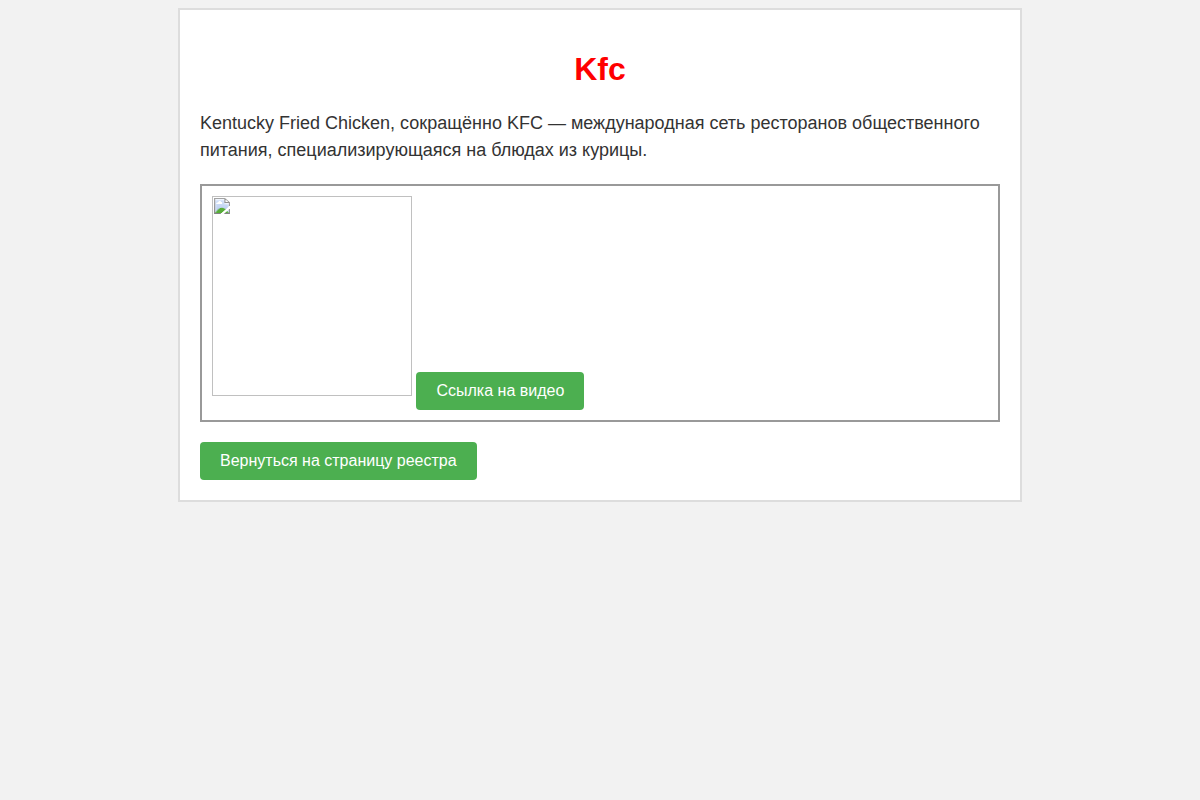
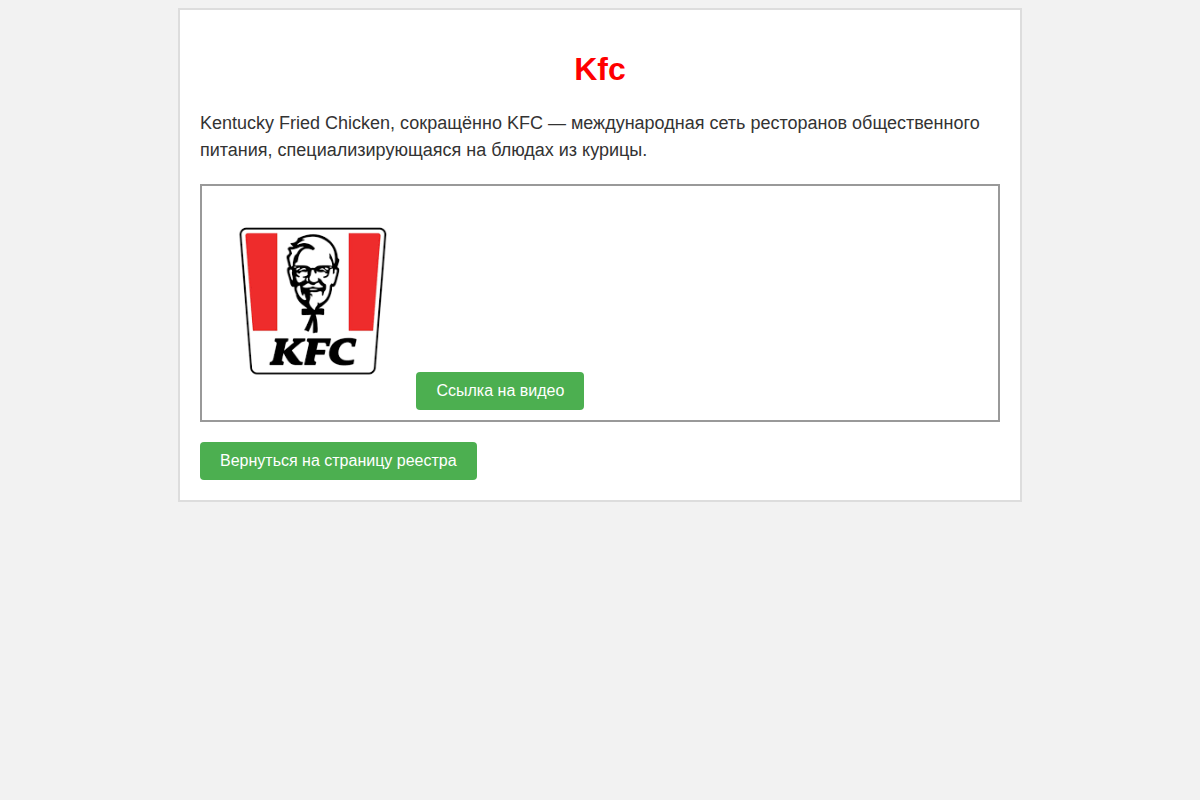
fix: replace bare-number picture labels and stale screenshot claims in elementary-frontend-labs
Nine practices had README tables with generic "1"/"2"/"3" labels even
where the pages have real distinguishing content the original labeling
pass missed (it only checked <title>, which is duplicated across pages
in several of these practices, not <h1> or actual page content):
- 01/practice-b: 3,4 -> distinguishing link targets (Blok poem, Rickroll)
- 02/practice-b: 1,2,3 -> real page <title>s (Первая/Вторая/Третья)
- 03/practice-a: 2,3,4 -> <h1> planet names shared by StarCraft's
  Aiur/Zerus/Korhal IV (all three pages share the same <title>)
- 03/practice-b: 2,3 -> genuinely interchangeable styling-exercise pages
  with no distinguishing content; labeled honestly as page 2/3 rather
  than inventing a false distinction
- 06/practice-a: 2,3 -> real page <title>s (Reader survey / v2)
- 07/practice-b: 1,2 -> <h1> text (JavaScript Lab 7/8, shared <title>)

07/practice-a and 08/practice-b said "nothing to screenshot" even though
each has 3 real terminal-panel screenshots sitting unused in results/ -
wired them into a proper preview table instead.

Also fixes a real bug: 02/practice-a/second_page.html referenced
`Kfc.png` but the file on disk is `kfc.png` - broken image on a
case-sensitive filesystem. Fixed the reference and recaptured
screenshot-2.png at the same 1200x800 viewport as its siblings.

Claude-Session: https://claude.ai/code/session_01Fu5tuhCQHKtTgZx7shMgyH

Changed region(s): [[0.185, 0.2812, 0.3392, 0.4688], [0.1542, 0.25, 0.185, 0.2812]]

diff --git a/elementary-frontend-labs/labs/02/practice-a/second_page.html b/elementary-frontend-labs/labs/02/practice-a/second_page.html
@@ -53,7 +53,7 @@
       <p>Kentucky Fried Chicken, сокращённо KFC — международная сеть ресторанов
          общественного питания, специализирующаяся на блюдах из курицы.</p>
       <div class="illustration">
-        <img src="Kfc.png" width="200" height="200">
+        <img src="kfc.png" width="200" height="200">
         <button class="centered-button" onclick="window.open('https://www.youtube.com/watch?v=dQw4w9WgXcQ&ab_channel=RickAstley', '_blank')">Ссылка на видео</button>
       </div>
       <button class="centered-button" onclick=location.href="index.html">Вернуться на страницу реестра</button>

diff --git a/elementary-frontend-labs/labs/08/practice-b/README.md b/elementary-frontend-labs/labs/08/practice-b/README.md
@@ -1,9 +1,11 @@
 # Lesson 08 · Practice b — Console JS exercises
 
-Console-only JavaScript exercises — no HTML page, so nothing to screenshot. Open the browser dev console and run:
+Console-only JavaScript exercises — no HTML page, screenshotted as `node` console runs instead:
 
-- [`continuation.js`](continuation.js)
-- [`merlin.js`](merlin.js)
-- [`thirteenth.js`](thirteenth.js)
+| Script | Preview |
+|---|---|
+| [`continuation.js`](continuation.js) | <img src="results/screenshot-1.png" width="260"> |
+| [`merlin.js`](merlin.js) | <img src="results/screenshot-2.png" width="260"> |
+| [`thirteenth.js`](thirteenth.js) | <img src="results/screenshot-3.png" width="260"> |
 
 [← Back to main README](../../../README.md)

diff --git a/elementary-frontend-labs/labs/02/practice-b/README.md b/elementary-frontend-labs/labs/02/practice-b/README.md
@@ -2,9 +2,9 @@
 
 | Page | Preview |
 |---|---|
-| [1](second_page.html) | <img src="results/screenshot-1.png" width="260"> |
-| [2](third_page.html) | <img src="results/screenshot-2.png" width="260"> |
-| [3](fourth_page.html) | <img src="results/screenshot-3.png" width="260"> |
+| [First](second_page.html) | <img src="results/screenshot-1.png" width="260"> |
+| [Second](third_page.html) | <img src="results/screenshot-2.png" width="260"> |
+| [Third](fourth_page.html) | <img src="results/screenshot-3.png" width="260"> |
 | [Siberian chipmunk](exercise1.html) | <img src="results/screenshot-4.png" width="260"> |
 | [Chipmunk family](exercise2.html) | <img src="results/screenshot-5.png" width="260"> |
 

diff --git a/elementary-frontend-labs/labs/07/practice-a/README.md b/elementary-frontend-labs/labs/07/practice-a/README.md
@@ -1,9 +1,11 @@
 # Lesson 07 · Practice a — Console JS exercises
 
-Console-only JavaScript exercises — no HTML page, so nothing to screenshot. Open the browser dev console and run:
+Console-only JavaScript exercises — no HTML page, screenshotted as `node` console runs instead:
 
-- [`fourth.js`](fourth.js)
-- [`fifth.js`](fifth.js)
-- [`sixth.js`](sixth.js)
+| Script | Preview |
+|---|---|
+| [`fourth.js`](fourth.js) | <img src="results/screenshot-1.png" width="260"> |
+| [`fifth.js`](fifth.js) | <img src="results/screenshot-2.png" width="260"> |
+| [`sixth.js`](sixth.js) | <img src="results/screenshot-3.png" width="260"> |
 
 [← Back to main README](../../../README.md)

diff --git a/elementary-frontend-labs/labs/03/practice-a/README.md b/elementary-frontend-labs/labs/03/practice-a/README.md
@@ -3,8 +3,8 @@
 | Page | Preview |
 |---|---|
 | [FantasyWorlds](main.html) | <img src="results/screenshot-1.png" width="260"> |
-| [2](second.html) | <img src="results/screenshot-2.png" width="260"> |
-| [3](third.html) | <img src="results/screenshot-3.png" width="260"> |
-| [4](fourth.html) | <img src="results/screenshot-4.png" width="260"> |
+| [Aiur](second.html) | <img src="results/screenshot-2.png" width="260"> |
+| [Zerus](third.html) | <img src="results/screenshot-3.png" width="260"> |
+| [Korhal IV](fourth.html) | <img src="results/screenshot-4.png" width="260"> |
 
 [← Back to main README](../../../README.md)

diff --git a/elementary-frontend-labs/labs/01/practice-b/README.md b/elementary-frontend-labs/labs/01/practice-b/README.md
@@ -4,7 +4,7 @@
 |---|---|
 | [Paragraph usage](second_pr.html) | <img src="results/screenshot-1.png" width="260"> |
 | [Text line wrapping](second.html) | <img src="results/screenshot-2.png" width="260"> |
-| [3](third.html) | <img src="results/screenshot-3.png" width="260"> |
-| [4](fourth.html) | <img src="results/screenshot-4.png" width="260"> |
+| [Absolute link — Blok poem](third.html) | <img src="results/screenshot-3.png" width="260"> |
+| [Absolute link — Rickroll](fourth.html) | <img src="results/screenshot-4.png" width="260"> |
 
 [← Back to main README](../../../README.md)

diff --git a/elementary-frontend-labs/labs/03/practice-b/README.md b/elementary-frontend-labs/labs/03/practice-b/README.md
@@ -3,7 +3,7 @@
 | Page | Preview |
 |---|---|
 | [Exercise](exercise.html) | <img src="results/screenshot-1.png" width="260"> |
-| [2](second_page.html) | <img src="results/screenshot-2.png" width="260"> |
-| [3](third_page.html) | <img src="results/screenshot-3.png" width="260"> |
+| [Styling exercise (page 2)](second_page.html) | <img src="results/screenshot-2.png" width="260"> |
+| [Styling exercise (page 3)](third_page.html) | <img src="results/screenshot-3.png" width="260"> |
 
 [← Back to main README](../../../README.md)

diff --git a/elementary-frontend-labs/labs/06/practice-a/README.md b/elementary-frontend-labs/labs/06/practice-a/README.md
@@ -3,7 +3,7 @@
 | Page | Preview |
 |---|---|
 | [Lab index](thirteenth.html) | <img src="results/screenshot-1.png" width="260"> |
-| [2](forms.html) | <img src="results/screenshot-2.png" width="260"> |
-| [3](tempt.html) | <img src="results/screenshot-3.png" width="260"> |
+| [Reader survey](forms.html) | <img src="results/screenshot-2.png" width="260"> |
+| [Reader survey (v2)](tempt.html) | <img src="results/screenshot-3.png" width="260"> |
 
 [← Back to main README](../../../README.md)

diff --git a/elementary-frontend-labs/labs/07/practice-b/README.md b/elementary-frontend-labs/labs/07/practice-b/README.md
@@ -2,7 +2,7 @@
 
 | Page | Preview |
 |---|---|
-| [1](seventh.html) | <img src="results/screenshot-1.png" width="260"> |
-| [2](eighth.html) | <img src="results/screenshot-2.png" width="260"> |
+| [JavaScript Lab 7](seventh.html) | <img src="results/screenshot-1.png" width="260"> |
+| [JavaScript Lab 8](eighth.html) | <img src="results/screenshot-2.png" width="260"> |
 
 [← Back to main README](../../../README.md)
